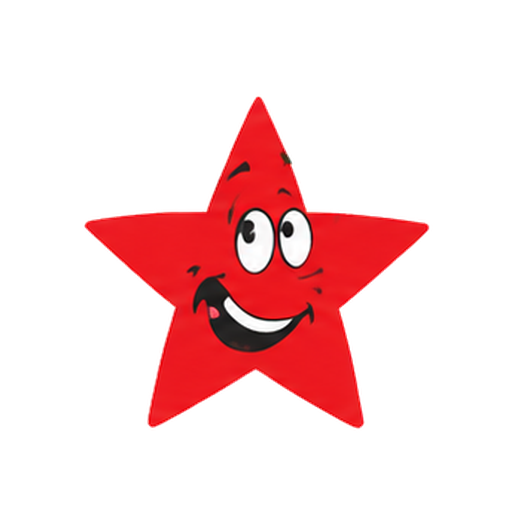
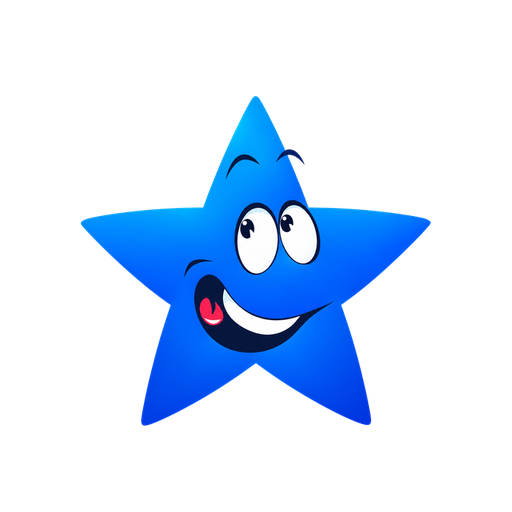
Use the blue star and add a glow to the sign-in card
Blue mascot, favicon and app icons; a light travels around the sign-in card.

Changed region(s): [[0.1562, 0.1875, 0.8438, 0.8438]]

diff --git a/src/features/auth/LoginScreen.tsx b/src/features/auth/LoginScreen.tsx
@@ -1,6 +1,7 @@
 import { Link } from 'react-router'
 import { useEffect, useRef, useState, type CSSProperties, type FormEvent, type ReactNode } from 'react'
 import { ArrowRight, Check, FlaskConical, HeartHandshake, KeyRound, LogIn, MailCheck, MailLine, MapPin, UserCheck } from '../../ui/icons'
+import { BorderBeam } from '../../ui/BorderBeam'
 import { Button } from '../../ui/Button'
 import { Logo, Mascot } from '../../ui/Logo'
 import { TextField } from '../../ui/Field'
@@ -39,11 +40,13 @@ export function SignInFrame({ children }: { children: ReactNode }) {
     <main className="flex min-h-dvh flex-col lg:grid lg:grid-cols-[minmax(0,0.95fr)_minmax(0,1fr)] lg:p-4">
       <section aria-label="About Jumpstart"
         className="signin-hero relative flex min-h-[50dvh] flex-col justify-center gap-7 overflow-hidden rounded-b-[36px] px-6 pt-[max(24px,calc(env(safe-area-inset-top)+16px))] pb-20 text-white sm:px-10 md:min-h-[54dvh] md:pb-24 lg:min-h-0 lg:justify-between lg:gap-10 lg:rounded-[32px] lg:p-12 xl:p-16">
-        <div className="self-center rounded-2xl bg-white px-4 py-2.5 shadow-[0_12px_30px_-12px_rgb(0_0_0/0.45)] lg:self-start">
-          <Logo className="h-9 sm:h-10 lg:h-11" />
+        <div className="self-center rounded-[22px] bg-white px-5 py-3 shadow-[0_0_0_6px_rgb(255_255_255/0.12),0_18px_40px_-16px_rgb(0_0_0/0.55)] lg:self-start lg:px-6 lg:py-3.5">
+          <Logo className="h-10 sm:h-11 lg:h-12" />
         </div>
         <div className="flex flex-col items-center text-center lg:items-start lg:text-left">
-          <Mascot size={72} />
+          <span className="relative grid place-items-center before:absolute before:-inset-5 before:rounded-full before:bg-[radial-gradient(closest-side,rgb(255_255_255/0.4),transparent)]">
+            <Mascot size={84} className="relative" />
+          </span>
           <p className="mt-3 max-w-[14ch] text-[30px] leading-[1.08] font-extrabold tracking-[-0.02em] text-balance sm:text-[36px] lg:mt-5 lg:text-[52px] 2xl:text-[64px]" role="heading" aria-level={2}>
             Safe drop-offs and pickups
           </p>
@@ -172,7 +175,8 @@ export function LoginScreen() {
 
   return (
     <SignInFrame>
-      <div className="card rounded-[28px] p-6 shadow-[var(--shadow-lift)] sm:p-8">
+      <div className="card relative rounded-[28px] p-6 shadow-[var(--shadow-lift)] sm:p-8">
+        <BorderBeam />
         {step === 'email' ? (
           <form key="email" onSubmit={onEmail} noValidate className="page-in grid gap-4">
             <div className="text-center">

diff --git a/src/styles/app.css b/src/styles/app.css
@@ -225,6 +225,35 @@
   /* Behind the sign-in card: a soft lavender light, so the card doesn't float in empty space. */
   .signin-side { background: radial-gradient(32rem 26rem at 50% 40%, rgb(124 99 255 / 0.1), transparent 70%); }
 
+  /* A light travelling around a card's edge (src/ui/BorderBeam.tsx). Only where the browser can move it along the edge,
+     and never with reduced motion. */
+  .border-beam { display: none; }
+  @supports (offset-path: rect(0 auto auto 0 round 10px)) {
+    @media (prefers-reduced-motion: no-preference) {
+      .border-beam {
+        display: block;
+        position: absolute;
+        inset: 0;
+        pointer-events: none;
+        border-radius: inherit;
+        border: 1.5px solid transparent;
+        mask: linear-gradient(transparent, transparent) padding-box, linear-gradient(#fff, #fff) border-box;
+        mask-composite: intersect;
+      }
+      .border-beam::after {
+        content: '';
+        position: absolute;
+        aspect-ratio: 1;
+        width: var(--beam-size);
+        background: linear-gradient(to left, var(--beam-from), var(--beam-to), transparent);
+        offset-anchor: 90% 50%;
+        offset-path: rect(0 auto auto 0 round var(--beam-size));
+        animation: border-beam var(--beam-duration) infinite linear;
+      }
+    }
+  }
+  @keyframes border-beam { to { offset-distance: 100%; } }
+
   /* Buttons (src/ui/Button.tsx): solid, with a darker lip that presses down. Hover is a colour change, never a shine. */
   .btn {
     --b: var(--accent);

diff --git a/src/ui/BorderBeam.tsx b/src/ui/BorderBeam.tsx
@@ -1,0 +1,10 @@
+import type { CSSProperties } from 'react'
+
+/**
+ * A slow light that travels around its parent's edge (VengeanceUI "border-beam", MIT, adapted: styles live in
+ * app.css `.border-beam`, it's hidden with reduced motion, and browsers without CSS offset-path show nothing).
+ * The parent needs `position: relative` and a border radius.
+ */
+export function BorderBeam({ size = 180, duration = 12, from = 'var(--rb-yellow)', to = 'var(--accent)' }: { size?: number; duration?: number; from?: string; to?: string }) {
+  return <span aria-hidden className="border-beam" style={{ '--beam-size': `${size}px`, '--beam-duration': `${duration}s`, '--beam-from': from, '--beam-to': to } as CSSProperties} />
+}

diff --git a/docs/design/design-system.md b/docs/design/design-system.md
@@ -10,11 +10,11 @@
 - **Plus Jakarta Sans only**, with emphasis in bold or italic of the same font.
 - Floating layers only (the top bar, toasts, the on-duty bar) are lightly frosted. Content cards are solid. Blur turns solid when it isn't supported or when Reduce Transparency is on.
 - Light and dark are designed separately. Dark is a calm night sky, with surfaces that step lighter as they rise.
-- The smiling star from the logo is the friendly mark for welcome, empty and loading moments.
+- The blue smiling star (owner, 2026-09-26; source in docs/design/brand) is the friendly mark for welcome, empty and loading moments, the map pin and the app icons. The wordmark keeps its own small stars.
 
 ## Logo
 - **Files:** `public/brand/logo.webp` (light), `logo-dark.webp` (dark theme, with the dotted flight path lightened so it stays visible) and `star.webp` (the smiling star). Transparent masters are in [brand/](brand/): the wordmark at 1796×584 and the star.
-- **App icons:** the smiling star on white. `apple-touch-icon.png` (180, opaque, because iOS rounds the corners), `icon-192.png` and `icon-512.png`, `icon-maskable-512.png` (the star inside the 80% safe zone), and `favicon.png` (64).
+- **App icons:** the blue smiling star on white. `apple-touch-icon.png` (180, opaque, because iOS rounds the corners), `icon-192.png` and `icon-512.png`, `icon-maskable-512.png` (the star inside the 80% safe zone), and `favicon.png` (64).
 - **Where it appears:** every top bar, Start duty, the login screen, the third person's link page (large, since a stranger opening a WhatsApp link needs to see it's really from the school), and the school pin on maps (the star).
 - **Rules:** never recolour, stretch or crop the wordmark; no busy backgrounds behind it; at least 28 px tall; clear space around it at least the height of the star.
 
